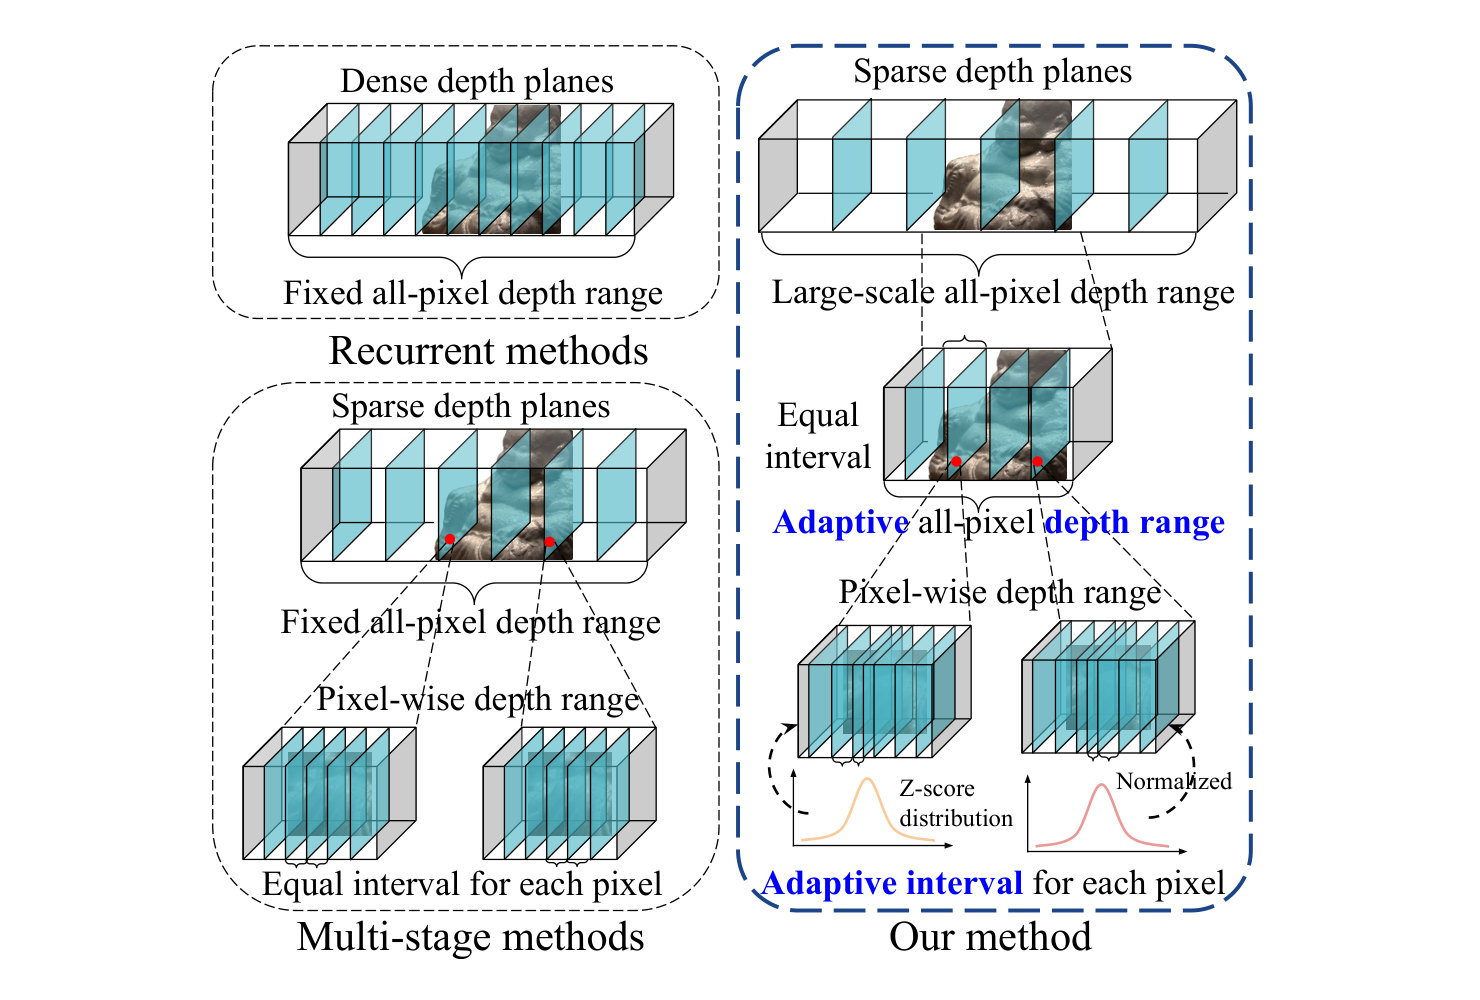
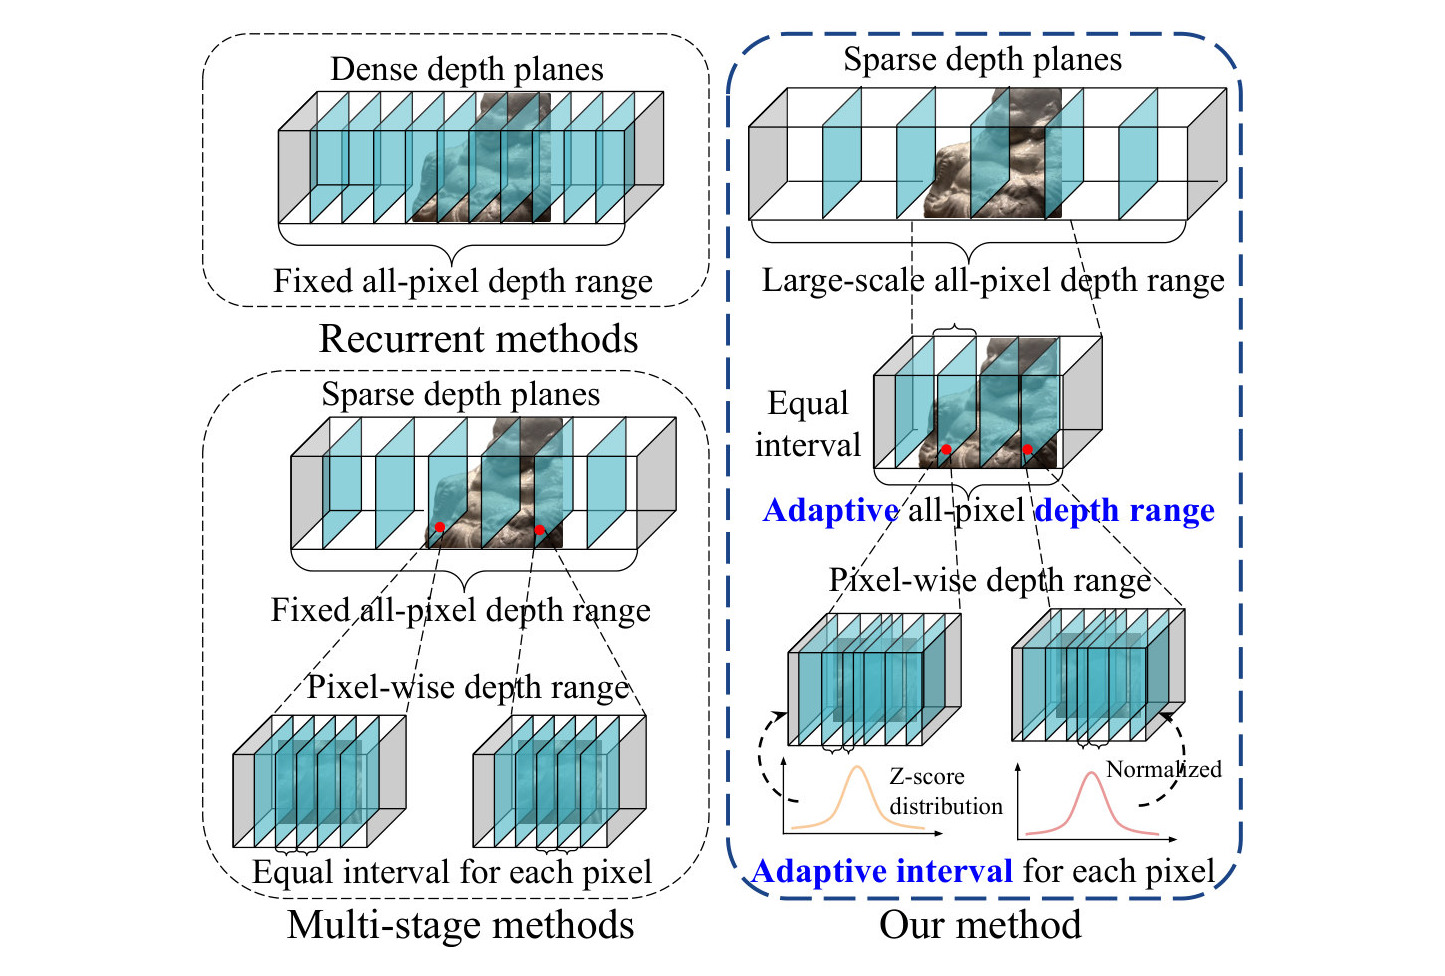
Add team member, WeChat posts, and normalise cover artwork
Team:
- add Zengmao Li; refresh the Minghao Xue and Shuoyuan Sun portraits
  (PNG -> JPEG, ~4x smaller) and recrop Chengwen Zheng and Shengxian Wang
- record where Jiaqi Cao and Chuchu Huang went after graduating

News:
- add four WeChat Official Account posts (HiRS-Agent, RL for tool calling,
  pre-training to SFT, near real-time remote sensing) with their covers
- WeChat ships 2.35:1 banners, so give the news cards and news detail cover
  that ratio instead of cropping a third of the width away

Life:
- show the per-photo caption permanently: the strip scrolls on its own, so a
  hover-only caption is unreadable on a moving slide and unreachable on touch
- add the Xi'an and Jinan conference photos

Publications:
- normalise all 26 teaser figures onto a 1.48:1 canvas with the figure at 96%
  of the width, so cards no longer crop wide figures or shrink padded ones
- match the detail cover to that ratio

Portrait crops are derived from originals kept in the gitignored
photo-originals/, so the framing can be revisited without re-uploading.

Claude-Session: https://claude.ai/code/session_01RRpGMAuAU7UqmXWxQz5Lgn

Changed region(s): [[0.1557, 0.0307, 0.872, 0.9836]]

diff --git a/src/data/team.ts b/src/data/team.ts
@@ -174,6 +174,23 @@ export const team: TeamMember[] = [
     personalZh: '喜欢篮球、健身和旅行。',
   },
 
+  {
+    slug: 'zengmao-li',
+    name: 'Zengmao Li',
+    nameZh: '黎增懋',
+    publicationNames: ['Zengmao Li'],
+    role: 'PhD Student',
+    roleZh: '博士研究生',
+    img: '/assets/team/zengmao-li.jpg',
+    desc: 'Zengmao Li is a PhD candidate in Information and Communication Engineering at Beijing University of Posts and Telecommunications. His primary research interests include deep learning algorithms, domain adaptation, computer vision, and remote sensing multimodal large models.',
+    descZh: '北京邮电大学信息与通信工程专业博士研究生，主要研究方向包括深度学习算法、域适应、计算机视觉、遥感多模态大模型相关研究。',
+    email: 'lizengmao19@163.com',
+    honors: ['First student author on papers published in TMM and KBS'],
+    honorsZh: ['以第一学生作者在 TMM、KBS 期刊发表论文'],
+    personal: 'Enjoys basketball and fitness.',
+    personalZh: '热爱篮球、健身。',
+  },
+
   // 硕士生 / Master Students —— 按入学年份排序
   {
     slug: 'shuoyuan-sun',
@@ -182,7 +199,7 @@ export const team: TeamMember[] = [
     publicationNames: ['Shuoyuan Sun'],
     role: 'Master Student',
     roleZh: '硕士研究生',
-    img: '/assets/team/shuoyuan-sun.png',
+    img: '/assets/team/shuoyuan-sun.jpg',
     desc: 'Shuoyuan Sun is currently pursuing an M.S. degree in Communication Engineering at Beijing University of Posts and Telecommunications. Research interests include multimodal remote sensing and task-oriented semantic communications.',
     descZh: '孙硕远，北京邮电大学信息与通信工程学院通信工程专业硕士研究生，研究方向包括多模态遥感、面向任务的语义通信。',
     email: 'shuoyuansun@bupt.edu.cn',
@@ -291,7 +308,7 @@ export const team: TeamMember[] = [
     publicationNames: ['Minghao Xue', '薛铭浩'],
     role: 'Master Student',
     roleZh: '硕士研究生',
-    img: '/assets/team/minghao-xue.png',
+    img: '/assets/team/minghao-xue.jpg',
     desc: 'Minghao Xue is a master’s student at the School of Information and Communication Engineering, Beijing University of Posts and Telecommunications. His research interests include multimodal large language models.',
     descZh: '北京邮电大学信息与通信工程学院硕士研究生，主要研究方向为多模态大语言模型。',
     email: 'azrstx@163.com',

diff --git a/src/data/alumni.ts b/src/data/alumni.ts
@@ -43,6 +43,8 @@ export const alumni: AlumniMember[] = [
     formerRole: 'Former Master Student',
     formerRoleZh: '原硕士生',
     year: '2026',
+    destination: 'China Bond Financial Technology Co., Ltd.',
+    destinationZh: '中债金科信息技术有限公司',
   },
   {
     name: 'Chuchu Huang',
@@ -50,5 +52,7 @@ export const alumni: AlumniMember[] = [
     formerRole: 'Former Master Student',
     formerRoleZh: '原硕士生',
     year: '2025',
+    destination: 'Administrative Committee of Ningbo Jiangbei Hi-Tech Industrial Park',
+    destinationZh: '宁波江北高新技术产业园区管委会',
   },
 ];

diff --git a/src/content/news/instant-remote-sensing.md b/src/content/news/instant-remote-sensing.md
@@ -1,0 +1,16 @@
+---
+title: "Explainer | Near Real-Time Remote Sensing: A Space-Based Information Service for the Mega-Constellation Era"
+titleEn: "Explainer | Near Real-Time Remote Sensing: A Space-Based Information Service for the Mega-Constellation Era"
+titleZh: "专题解读 | 即时遥感：巨星座时代天基即时信息服务系统"
+description: "Classic remote sensing pipelines are too slow for disaster response: revisit times run to days, tasking needs people in the loop, and downlink bandwidth is scarce. This piece sets out a mega-constellation architecture — laser inter-satellite links, integrated communication and sensing payloads, and on-orbit compute — that closes the loop from request to product in 15 to 60 minutes."
+descriptionEn: "Classic remote sensing pipelines are too slow for disaster response: revisit times run to days, tasking needs people in the loop, and downlink bandwidth is scarce. This piece sets out a mega-constellation architecture — laser inter-satellite links, integrated communication and sensing payloads, and on-orbit compute — that closes the loop from request to product in 15 to 60 minutes."
+descriptionZh: "经典遥感体系响应延时高、依赖人工干预、通信带宽受限，难以支撑分钟级应急响应。本文提出巨星座时代天基信息即时遥感服务系统构想，依托激光高速星间链路、通遥一体星与星上算力资源池，把从用户需求到数据产品交付的闭环压缩到 15 至 60 分钟。"
+pubDate: 2025-06-26
+tags: ["Explainer", "WeChat"]
+researchAreas: ["leo-communication", "eo-applications"]
+image: /assets/news/instant-remote-sensing.jpg
+externalUrl: "https://mp.weixin.qq.com/s/RpYnumjPu5IG00ZosX63mg"
+draft: false
+---
+
+Read the full article on our WeChat Official Account, **IntelliSense Lab**.

diff --git a/src/content/news/hirs-agent-acmmm-2026.md b/src/content/news/hirs-agent-acmmm-2026.md
@@ -1,0 +1,16 @@
+---
+title: "ACM MM 2026 Oral | HiRS-Agent: A Hierarchical Multi-Agent System for Reliable Long-Horizon Remote Sensing Task Solving"
+titleEn: "ACM MM 2026 Oral | HiRS-Agent: A Hierarchical Multi-Agent System for Reliable Long-Horizon Remote Sensing Task Solving"
+titleZh: "ACM MM 2026 Oral | HiRS-Agent：面向长链路遥感任务的分层多智能体"
+description: "HiRS-Agent puts a Manager over three Specialists so a long remote sensing workflow is planned, routed, executed and checked step by step. Verification at every step lifts long-horizon task accuracy from 15.73% to 43.95%. Accepted as an Oral at ACM Multimedia 2026."
+descriptionEn: "HiRS-Agent puts a Manager over three Specialists so a long remote sensing workflow is planned, routed, executed and checked step by step. Verification at every step lifts long-horizon task accuracy from 15.73% to 43.95%. Accepted as an Oral at ACM Multimedia 2026."
+descriptionZh: "HiRS-Agent 构建 Manager–Specialist 分层多智能体系统，把任务分解、专家路由、工具执行、步骤级验证与失败恢复纳入统一闭环，将长程遥感任务执行准确率从 15.73% 提升至 43.95%，接近原始模型的 3 倍。论文被 ACM Multimedia 2026 接收为 Oral。"
+pubDate: 2026-09-07
+tags: ["ACM MM 2026", "WeChat"]
+researchAreas: ["agent", "eo-applications"]
+image: /assets/news/hirs-agent-acmmm-2026.jpg
+externalUrl: "https://mp.weixin.qq.com/s/L6Mx1cpLbI_28BkWZbBApg"
+draft: false
+---
+
+Read the full article on our WeChat Official Account, **IntelliSense Lab**.

diff --git a/src/content/news/rl-for-tool-calling.md b/src/content/news/rl-for-tool-calling.md
@@ -1,0 +1,16 @@
+---
+title: "Explainer | From Prompt to Policy: How Reinforcement Learning Teaches LLMs to Call Tools"
+titleEn: "Explainer | From Prompt to Policy: How Reinforcement Learning Teaches LLMs to Call Tools"
+titleZh: "智能体关键技术 | 从 prompt 到 policy，强化学习如何赋能大模型准确调用工具"
+description: "A walk through the 2025 work on reinforcement learning for tool-integrated reasoning, from single-tool agents such as ReTool to multi-tool orchestration — and why prompting and supervised fine-tuning alone do not produce a reliable calling strategy."
+descriptionEn: "A walk through the 2025 work on reinforcement learning for tool-integrated reasoning, from single-tool agents such as ReTool to multi-tool orchestration — and why prompting and supervised fine-tuning alone do not produce a reliable calling strategy."
+descriptionZh: "梳理 2025 年上半年强化学习用于工具集成推理（TIR）的代表性工作，从 ReTool 等单工具智能体到多工具组合调度，解释为什么仅靠提示工程与监督微调难以学到稳定的工具调用策略。"
+pubDate: 2025-07-25
+tags: ["Explainer", "WeChat"]
+researchAreas: ["agent", "multimodal-llms"]
+image: /assets/news/rl-for-tool-calling.jpg
+externalUrl: "https://mp.weixin.qq.com/s/GUmm-9Sao0eJ-ehnyeqpmg"
+draft: false
+---
+
+Read the full article on our WeChat Official Account, **IntelliSense Lab**.

diff --git a/src/content/news/pretraining-to-sft.md b/src/content/news/pretraining-to-sft.md
@@ -1,0 +1,16 @@
+---
+title: "Explainer | From Pre-training to Supervised Fine-tuning: How a Large Language Model Grows Up"
+titleEn: "Explainer | From Pre-training to Supervised Fine-tuning: How a Large Language Model Grows Up"
+titleZh: "专题解读 | 从预训练到监督微调：拆解大语言模型的成长之路"
+description: "The two foundations under every modern LLM, unpacked: what pre-training buys on a trillion-token corpus, how BERT and GPT split on architecture and objective, and what supervised fine-tuning adds on top."
+descriptionEn: "The two foundations under every modern LLM, unpacked: what pre-training buys on a trillion-token corpus, how BERT and GPT split on architecture and objective, and what supervised fine-tuning adds on top."
+descriptionZh: "拆解大语言模型「预训练 → 监督微调 → 偏好对齐」路线中的前两步：预训练如何在万亿级语料上奠定世界底座，BERT 与 GPT 在架构和训练目标上如何分野，监督微调又补上了什么。"
+pubDate: 2025-07-09
+tags: ["Explainer", "WeChat"]
+researchAreas: ["multimodal-llms"]
+image: /assets/news/pretraining-to-sft.jpg
+externalUrl: "https://mp.weixin.qq.com/s/h5W0UwZfKNqzjBujoGAzVA"
+draft: false
+---
+
+Read the full article on our WeChat Official Account, **IntelliSense Lab**.

diff --git a/src/content/life/2024-06-spectrum-conference.md b/src/content/life/2024-06-spectrum-conference.md
@@ -1,0 +1,17 @@
+---
+title: "China Electromagnetic Spectrum Conference"
+titleEn: "China Electromagnetic Spectrum Conference"
+titleZh: "中国电磁频谱学术大会"
+description: "At the 3rd China Electromagnetic Spectrum Conference in Xi'an, Shaanxi, June 2024."
+descriptionEn: "At the 3rd China Electromagnetic Spectrum Conference in Xi'an, Shaanxi, June 2024."
+descriptionZh: "2024 年 6 月，前往陕西西安参加第三届中国电磁频谱学术大会。"
+category: "conference"
+categoryEn: "Conference"
+categoryZh: "学术会议"
+date: 2024-06-21
+location: "Xi'an"
+locationZh: "西安"
+images:
+  - "/assets/life/2024-06-spectrum-conference-01.jpg"
+draft: false
+---

diff --git a/src/content/life/2024-09-aitc-jinan.md b/src/content/life/2024-09-aitc-jinan.md
@@ -1,0 +1,17 @@
+---
+title: "Aerospace Information Technology Conference"
+titleEn: "Aerospace Information Technology Conference"
+titleZh: "空天信息技术大会"
+description: "Checking in at the Aerospace Information Technology Conference in Jinan, September 2024."
+descriptionEn: "Checking in at the Aerospace Information Technology Conference in Jinan, September 2024."
+descriptionZh: "2024 年 9 月，前往山东济南参加空天信息技术大会。"
+category: "conference"
+categoryEn: "Conference"
+categoryZh: "学术会议"
+date: 2024-09-20
+location: "Jinan"
+locationZh: "济南"
+images:
+  - "/assets/life/2024-09-aitc-jinan-01.jpg"
+draft: false
+---
